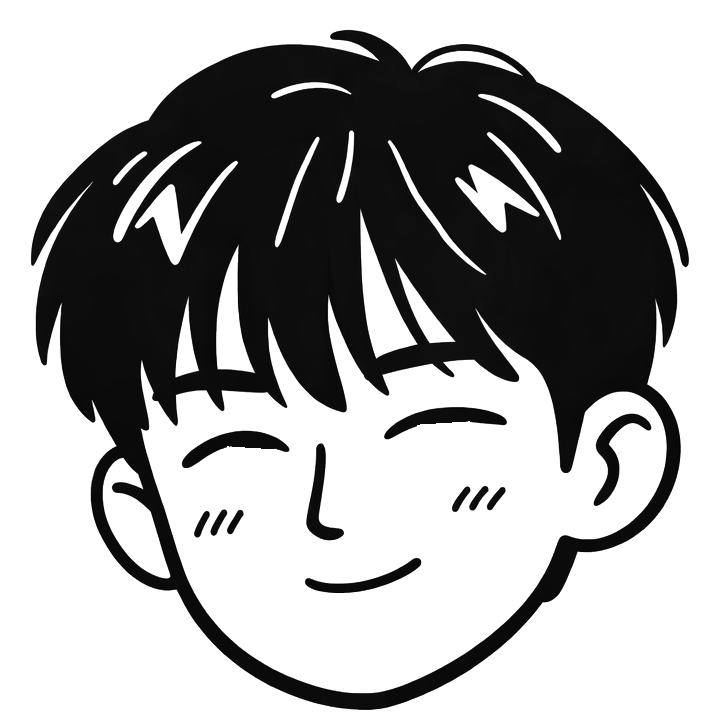
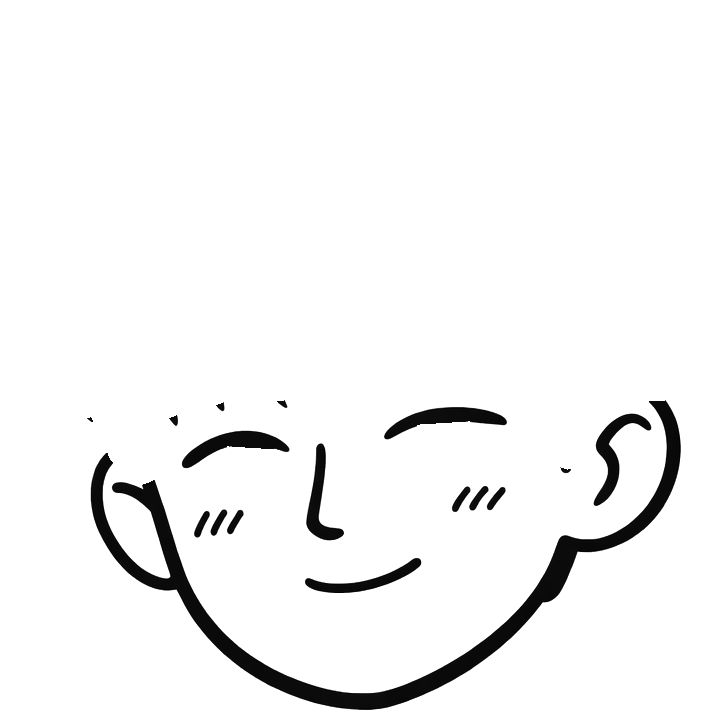
feat: 히어로 캐릭터 머리카락을 분리해 깊이감과 밀림 효과 추가
머리카락 레이어를 WebGL 격자로 그려 얼굴보다 더 움직이게 하고(패럴랙스),
커서가 지나가면 그 속도만큼 밀렸다가 스프링처럼 돌아온다.
WebGL 이 없거나 동작 줄이기 설정이면 SVG 머리카락을 그대로 쓴다.

diff --git a/src/components/hero/hairMesh.ts b/src/components/hero/hairMesh.ts
@@ -1,0 +1,201 @@
+/**
+ * 머리카락 레이어를 촘촘한 격자에 올려 WebGL 로 그린다.
+ * 커서가 지나가면 근처 격자점이 커서 속도만큼 밀리고, 스프링처럼 천천히 제자리로 돌아온다.
+ * 좌표는 그림 기준(720×720)이다.
+ */
+const SIZE = 720;
+/** 한 변의 격자 칸 수 */
+const N = 36;
+/** 커서가 미는 반경과 세기 */
+const RADIUS = 90;
+const PUSH = 0.45;
+/** 스프링: 되돌아오는 힘, 감쇠, 최대 밀림 */
+const SPRING = 0.07;
+const DAMP = 0.85;
+const MAX_OFF = 26;
+
+const VERT = `
+attribute vec2 a_pos;
+attribute vec2 a_uv;
+uniform vec2 u_shift;
+varying vec2 v_uv;
+void main() {
+  vec2 p = (a_pos + u_shift) / ${SIZE}.0 * 2.0 - 1.0;
+  gl_Position = vec4(p.x, -p.y, 0.0, 1.0);
+  v_uv = a_uv;
+}`;
+
+const FRAG = `
+precision mediump float;
+uniform sampler2D u_tex;
+varying vec2 v_uv;
+void main() { gl_FragColor = texture2D(u_tex, v_uv); }`;
+
+export interface HairMesh {
+  /** 얼굴과 다른 거리만큼 움직여 깊이감을 만든다. 움직인 만큼 머리끝이 살짝 늦게 따라온다 */
+  setShift(x: number, y: number): void;
+  /** 그림 좌표 (x, y) 에서 (vx, vy) 속도로 커서가 지나갔다 */
+  poke(x: number, y: number, vx: number, vy: number): void;
+  /** 한 프레임 진행하고 그린다. 아직 움직이는 중이면 true */
+  step(): boolean;
+  destroy(): void;
+}
+
+function compile(gl: WebGLRenderingContext, type: number, src: string) {
+  const s = gl.createShader(type)!;
+  gl.shaderSource(s, src);
+  gl.compileShader(s);
+  return s;
+}
+
+export function createHairMesh(
+  canvas: HTMLCanvasElement,
+  img: HTMLImageElement,
+): HairMesh | null {
+  const gl = canvas.getContext("webgl", {
+    alpha: true,
+    premultipliedAlpha: true,
+    antialias: true,
+  });
+  if (!gl) return null;
+
+  const prog = gl.createProgram()!;
+  gl.attachShader(prog, compile(gl, gl.VERTEX_SHADER, VERT));
+  gl.attachShader(prog, compile(gl, gl.FRAGMENT_SHADER, FRAG));
+  gl.linkProgram(prog);
+  if (!gl.getProgramParameter(prog, gl.LINK_STATUS)) return null;
+  gl.useProgram(prog);
+
+  // 격자점: 기준 위치, 밀린 양, 속도, 머리끝일수록 커지는 가중치
+  const count = (N + 1) * (N + 1);
+  const base = new Float32Array(count * 2);
+  const off = new Float32Array(count * 2);
+  const vel = new Float32Array(count * 2);
+  const tip = new Float32Array(count);
+  const pos = new Float32Array(count * 2);
+  for (let j = 0; j <= N; j++)
+    for (let i = 0; i <= N; i++) {
+      const k = j * (N + 1) + i;
+      base[k * 2] = (i / N) * SIZE;
+      base[k * 2 + 1] = (j / N) * SIZE;
+      // 정수리(위쪽)는 거의 고정, 앞머리 끝으로 갈수록 잘 움직인다
+      tip[k] = Math.min(1, Math.max(0.15, (j / N - 0.1) / 0.55));
+    }
+  const idx = new Uint16Array(N * N * 6);
+  let t = 0;
+  for (let j = 0; j < N; j++)
+    for (let i = 0; i < N; i++) {
+      const a = j * (N + 1) + i;
+      const b = a + 1;
+      const c = a + N + 1;
+      const d = c + 1;
+      idx.set([a, b, c, b, d, c], t);
+      t += 6;
+    }
+
+  const uvBuf = gl.createBuffer();
+  gl.bindBuffer(gl.ARRAY_BUFFER, uvBuf);
+  gl.bufferData(
+    gl.ARRAY_BUFFER,
+    base.map((v) => v / SIZE),
+    gl.STATIC_DRAW,
+  );
+  const aUv = gl.getAttribLocation(prog, "a_uv");
+  gl.enableVertexAttribArray(aUv);
+  gl.vertexAttribPointer(aUv, 2, gl.FLOAT, false, 0, 0);
+
+  const posBuf = gl.createBuffer();
+  gl.bindBuffer(gl.ARRAY_BUFFER, posBuf);
+  gl.bufferData(gl.ARRAY_BUFFER, base, gl.DYNAMIC_DRAW);
+  const aPos = gl.getAttribLocation(prog, "a_pos");
+  gl.enableVertexAttribArray(aPos);
+  gl.vertexAttribPointer(aPos, 2, gl.FLOAT, false, 0, 0);
+
+  const ib = gl.createBuffer();
+  gl.bindBuffer(gl.ELEMENT_ARRAY_BUFFER, ib);
+  gl.bufferData(gl.ELEMENT_ARRAY_BUFFER, idx, gl.STATIC_DRAW);
+
+  const tex = gl.createTexture();
+  gl.bindTexture(gl.TEXTURE_2D, tex);
+  gl.pixelStorei(gl.UNPACK_PREMULTIPLY_ALPHA_WEBGL, true);
+  gl.texImage2D(gl.TEXTURE_2D, 0, gl.RGBA, gl.RGBA, gl.UNSIGNED_BYTE, img);
+  gl.texParameteri(gl.TEXTURE_2D, gl.TEXTURE_MIN_FILTER, gl.LINEAR);
+  gl.texParameteri(gl.TEXTURE_2D, gl.TEXTURE_MAG_FILTER, gl.LINEAR);
+  gl.texParameteri(gl.TEXTURE_2D, gl.TEXTURE_WRAP_S, gl.CLAMP_TO_EDGE);
+  gl.texParameteri(gl.TEXTURE_2D, gl.TEXTURE_WRAP_T, gl.CLAMP_TO_EDGE);
+
+  gl.enable(gl.BLEND);
+  gl.blendFunc(gl.ONE, gl.ONE_MINUS_SRC_ALPHA);
+  const uShift = gl.getUniformLocation(prog, "u_shift");
+
+  const shift = { x: 0, y: 0 };
+
+  const resize = () => {
+    const dpr = Math.min(window.devicePixelRatio || 1, 2);
+    const w = Math.round(canvas.clientWidth * dpr);
+    const h = Math.round(canvas.clientHeight * dpr);
+    if (canvas.width !== w || canvas.height !== h) {
+      canvas.width = w;
+      canvas.height = h;
+    }
+    gl.viewport(0, 0, canvas.width, canvas.height);
+  };
+  const ro = new ResizeObserver(() => {
+    resize();
+    draw();
+  });
+  ro.observe(canvas);
+
+  function draw() {
+    for (let k = 0; k < count * 2; k++) pos[k] = base[k] + off[k];
+    gl!.bindBuffer(gl!.ARRAY_BUFFER, posBuf);
+    gl!.bufferSubData(gl!.ARRAY_BUFFER, 0, pos);
+    gl!.uniform2f(uShift, shift.x, shift.y);
+    gl!.clearColor(0, 0, 0, 0);
+    gl!.clear(gl!.COLOR_BUFFER_BIT);
+    gl!.drawElements(gl!.TRIANGLES, idx.length, gl!.UNSIGNED_SHORT, 0);
+  }
+
+  resize();
+  draw();
+
+  return {
+    setShift(x, y) {
+      const dx = x - shift.x;
+      const dy = y - shift.y;
+      shift.x = x;
+      shift.y = y;
+      // 관성: 머리 전체가 움직인 반대쪽으로 머리끝이 잠깐 남는다
+      for (let k = 0; k < count; k++) {
+        vel[k * 2] -= dx * tip[k] * 0.5;
+        vel[k * 2 + 1] -= dy * tip[k] * 0.5;
+      }
+    },
+    poke(x, y, vx, vy) {
+      const r2 = RADIUS * RADIUS;
+      for (let k = 0; k < count; k++) {
+        const ddx = base[k * 2] + off[k * 2] + shift.x - x;
+        const ddy = base[k * 2 + 1] + off[k * 2 + 1] + shift.y - y;
+        const d2 = ddx * ddx + ddy * ddy;
+        if (d2 > r2) continue;
+        const w = (1 - Math.sqrt(d2) / RADIUS) ** 2 * (0.35 + 0.65 * tip[k]);
+        vel[k * 2] += vx * w * PUSH;
+        vel[k * 2 + 1] += vy * w * PUSH;
+      }
+    },
+    step() {
+      let energy = 0;
+      for (let k = 0; k < count * 2; k++) {
+        vel[k] = (vel[k] - off[k] * SPRING) * DAMP;
+        off[k] = Math.max(-MAX_OFF, Math.min(MAX_OFF, off[k] + vel[k]));
+        energy += Math.abs(vel[k]) + Math.abs(off[k]) * 0.1;
+      }
+      draw();
+      return energy > count * 0.002;
+    },
+    destroy() {
+      ro.disconnect();
+      gl.getExtension("WEBGL_lose_context")?.loseContext();
+    },
+  };
+}

diff --git a/src/components/HeroMedia.tsx b/src/components/HeroMedia.tsx
@@ -2,12 +2,15 @@
 
 import { useEffect, useRef } from "react";
 import { useReducedMotion } from "framer-motion";
+import { createHairMesh, type HairMesh } from "./hero/hairMesh";
 
 /**
  * 히어로 오른쪽 캐릭터: 눈동자가 커서를 따라간다.
  * 원본 그림에서 눈동자만 지운 얼굴(face.webp) 위에 눈동자 조각(pupil-*.webp)을 올려 움직인다.
  * 눈동자 조각은 눈꺼풀 윗선부터 잘라 두었고, 윗선 위로는 clipPath 로 가려 눈꺼풀 밖으로 삐져나오지 않는다.
- * 좌표는 모두 face.webp(720×720) 기준이다.
+ * 머리카락(hair.webp)은 따로 떼어 WebGL 격자로 그린다: 얼굴보다 더 많이 움직여 깊이감을 주고, 커서가 지나가면 밀린다.
+ * WebGL 을 못 쓰거나 동작 줄이기 설정이면 SVG 로 그린 머리카락이 그대로 남는다.
+ * 좌표는 모두 그림(720×720) 기준이다.
  */
 const EYES = [
   {
@@ -36,6 +39,8 @@ const MAX_UP = 5;
 const MAX_DOWN = 9;
 /** 얼굴 전체가 커서 쪽으로 돌아보는 정도: 위치 이동(그림 좌표)과 3D 기울기(도) */
 const HEAD = 0.6;
+/** 머리카락은 얼굴보다 앞에 있으니 더 많이 움직인다 */
+const HAIR = 1.5;
 const TILT_Y = 14;
 const TILT_X = 10;
 /** 커서가 이 거리(px)만큼 떨어지면 끝까지 본다 */
@@ -54,6 +59,8 @@ export default function HeroMedia() {
   const wrapRef = useRef<HTMLDivElement>(null);
   const headRef = useRef<SVGGElement>(null);
   const pupilRefs = useRef<(SVGImageElement | null)[]>([]);
+  const hairSvgRef = useRef<SVGImageElement>(null);
+  const canvasRef = useRef<HTMLCanvasElement>(null);
 
   useEffect(() => {
     if (reduce) return;
@@ -64,6 +71,8 @@ export default function HeroMedia() {
     const cur = { x: 0, y: 0 };
     let raf = 0;
     let blinkAt = 0;
+    let mesh: HairMesh | null = null;
+    let meshMoving = false;
 
     // 목표 방향(-1~1)으로 매 프레임 조금씩 다가간다. 값이 연속이라 React 상태 대신 DOM 속성을 직접 바꾼다
     const tick = (now: number) => {
@@ -82,6 +91,10 @@ export default function HeroMedia() {
         "transform",
         `translate(${px * HEAD} ${py * HEAD})`,
       );
+      if (mesh) {
+        mesh.setShift(px * HAIR, py * HAIR);
+        meshMoving = mesh.step();
+      }
       EYES.forEach((e, i) => {
         const top = e.y;
         pupilRefs.current[i]?.setAttribute(
@@ -91,6 +104,7 @@ export default function HeroMedia() {
       });
       if (
         blinkAt ||
+        meshMoving ||
         Math.abs(target.x - cur.x) + Math.abs(target.y - cur.y) > 0.001
       )
         raf = requestAnimationFrame(tick);
@@ -108,6 +122,17 @@ export default function HeroMedia() {
       }, blinkGap());
     };
     scheduleBlink();
+
+    // 머리카락 격자: 이미지를 받은 뒤 WebGL 이 되면 SVG 머리카락을 숨기고 바꿔 그린다
+    const hairImg = new Image();
+    hairImg.src = "/hero/hair.webp";
+    hairImg.onload = () => {
+      const canvas = canvasRef.current;
+      if (!canvas) return;
+      mesh = createHairMesh(canvas, hairImg);
+      if (mesh) hairSvgRef.current?.setAttribute("visibility", "hidden");
+    };
+
     const aim = (x: number, y: number) => {
       target.x = x;
       target.y = y;
@@ -126,11 +151,19 @@ export default function HeroMedia() {
         clearInterval(id);
         clearTimeout(blinkTimer);
         cancelAnimationFrame(raf);
+        mesh?.destroy();
       };
     }
 
+    let last: { x: number; y: number } | null = null;
     const onMove = (e: PointerEvent) => {
       const r = svg.getBoundingClientRect();
+      // 커서가 그림 위를 지나가면 그 속도만큼 머리카락을 민다
+      const ix = ((e.clientX - r.left) / r.width) * 720;
+      const iy = ((e.clientY - r.top) / r.height) * 720;
+      if (mesh && last && ix > -40 && ix < 760 && iy > -40 && iy < 640)
+        mesh.poke(ix, iy, ix - last.x, iy - last.y);
+      last = { x: ix, y: iy };
       // 두 눈 사이(그림의 가로 48%, 세로 62% 지점)를 기준으로 방향을 잰다
       const dx = e.clientX - (r.left + r.width * 0.48);
       const dy = e.clientY - (r.top + r.height * 0.62);
@@ -138,7 +171,10 @@ export default function HeroMedia() {
       const k = Math.min(1, dist / REACH) / dist;
       aim(dx * k, dy * k);
     };
-    const onLeave = () => aim(0, 0);
+    const onLeave = () => {
+      last = null;
+      aim(0, 0);
+    };
 
     window.addEventListener("pointermove", onMove, { passive: true });
     document.documentElement.addEventListener("pointerleave", onLeave);
@@ -147,20 +183,21 @@ export default function HeroMedia() {
       document.documentElement.removeEventListener("pointerleave", onLeave);
       clearTimeout(blinkTimer);
       cancelAnimationFrame(raf);
+      mesh?.destroy();
     };
   }, [reduce]);
 
   return (
     <div
       ref={wrapRef}
-      className="mx-auto w-full max-w-[26rem] will-change-transform lg:mr-0"
+      className="relative mx-auto w-full max-w-[26rem] will-change-transform dark:invert lg:mr-0"
     >
       <svg
         ref={svgRef}
         viewBox="0 0 720 720"
         role="img"
         aria-label="유병규 캐릭터 일러스트"
-        className="w-full dark:invert"
+        className="w-full"
       >
         <defs>
           {EYES.map((e) => (
@@ -185,8 +222,19 @@ export default function HeroMedia() {
               />
             </g>
           ))}
+          <image
+            ref={hairSvgRef}
+            href="/hero/hair.webp"
+            width="720"
+            height="720"
+          />
         </g>
       </svg>
+      <canvas
+        ref={canvasRef}
+        aria-hidden="true"
+        className="pointer-events-none absolute inset-0 h-full w-full"
+      />
     </div>
   );
 }

diff --git a/README.md b/README.md
@@ -117,7 +117,7 @@ npm start
 - **src/data/projects.ts**: 프로젝트 데이터 (개요, 도전과제, 성과 지표, 기술 스택)
 - **src/constants/site.ts**: 배포 URL (OG 이미지 · JSON-LD · sitemap · robots 에 전파)
 - **Hero.tsx**: 소개 문장, 성과 3종 패널, CTA 링크
-- **HeroMedia.tsx**: 눈동자가 커서를 따라가는 캐릭터 일러스트. 눈동자를 지운 얼굴(`public/hero/face.webp`) 위에 눈동자 조각(`pupil-*.webp`)을 SVG 로 올려 움직임. 좌표는 `EYES` 에 있음
+- **HeroMedia.tsx**: 눈동자가 커서를 따라가는 캐릭터 일러스트. 눈동자를 지운 얼굴(`public/hero/face.webp`) 위에 눈동자 조각(`pupil-*.webp`)을 SVG 로 올려 움직임. 좌표는 `EYES` 에 있음. 머리카락(`hair.webp`)은 `hero/hairMesh.ts` 의 WebGL 격자로 그려, 얼굴보다 더 움직여 깊이감을 주고 커서가 지나가면 밀림
 - **FeaturedWork.tsx**: 대표 작업 4개 (판단 한 줄, 지표, 예시 화면)
 - **Work.tsx**: 회사 프로젝트 목록 (트랙 구성) 및 상세 페이지 연결
 - **SideProjects.tsx**: 개인 프로젝트 목록 (GitHub/Demo/npm 링크)
